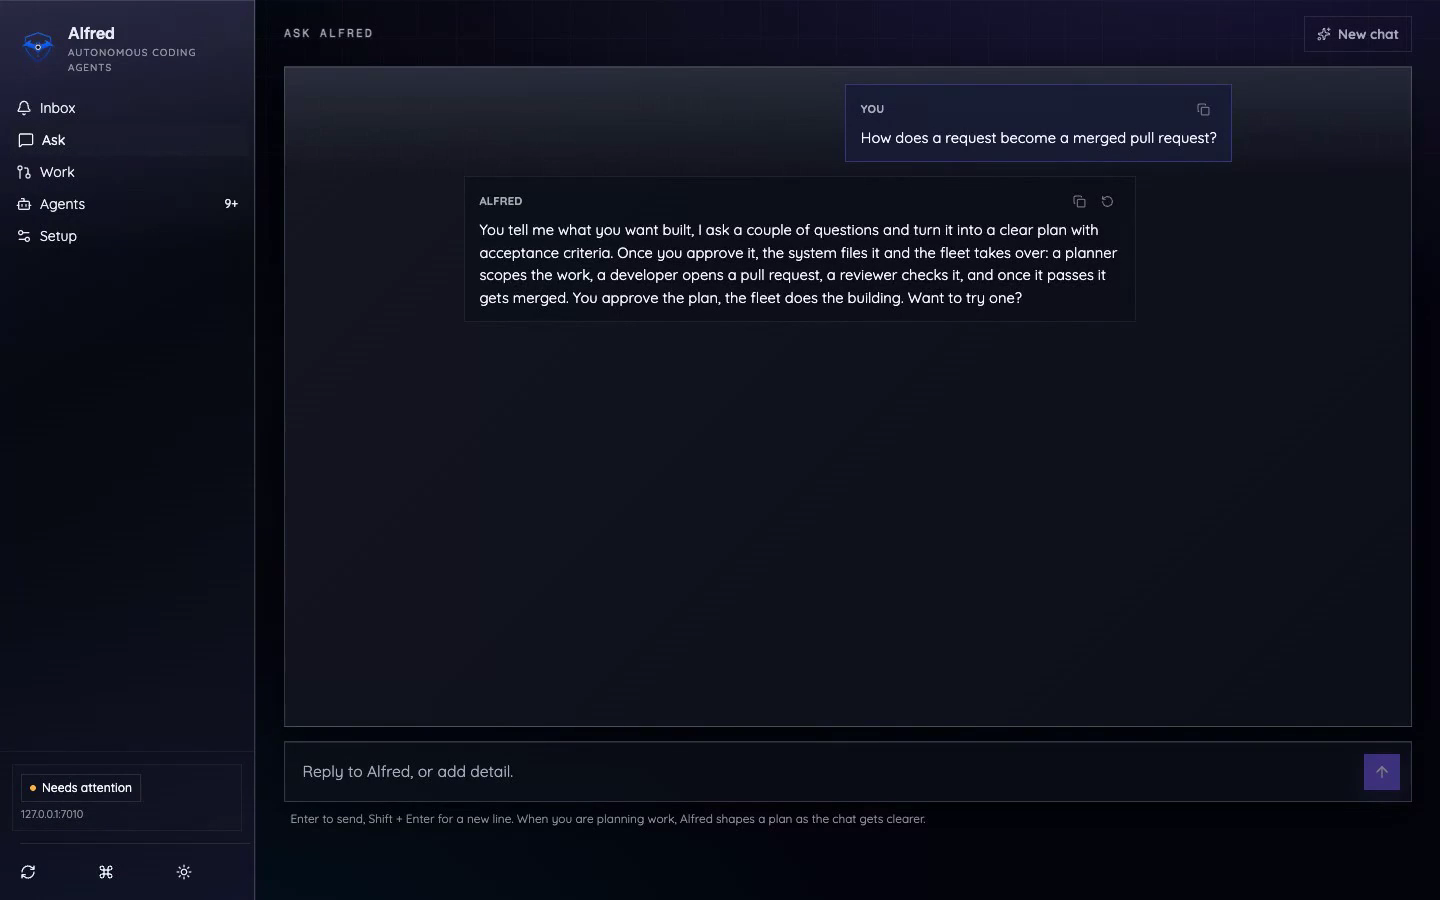
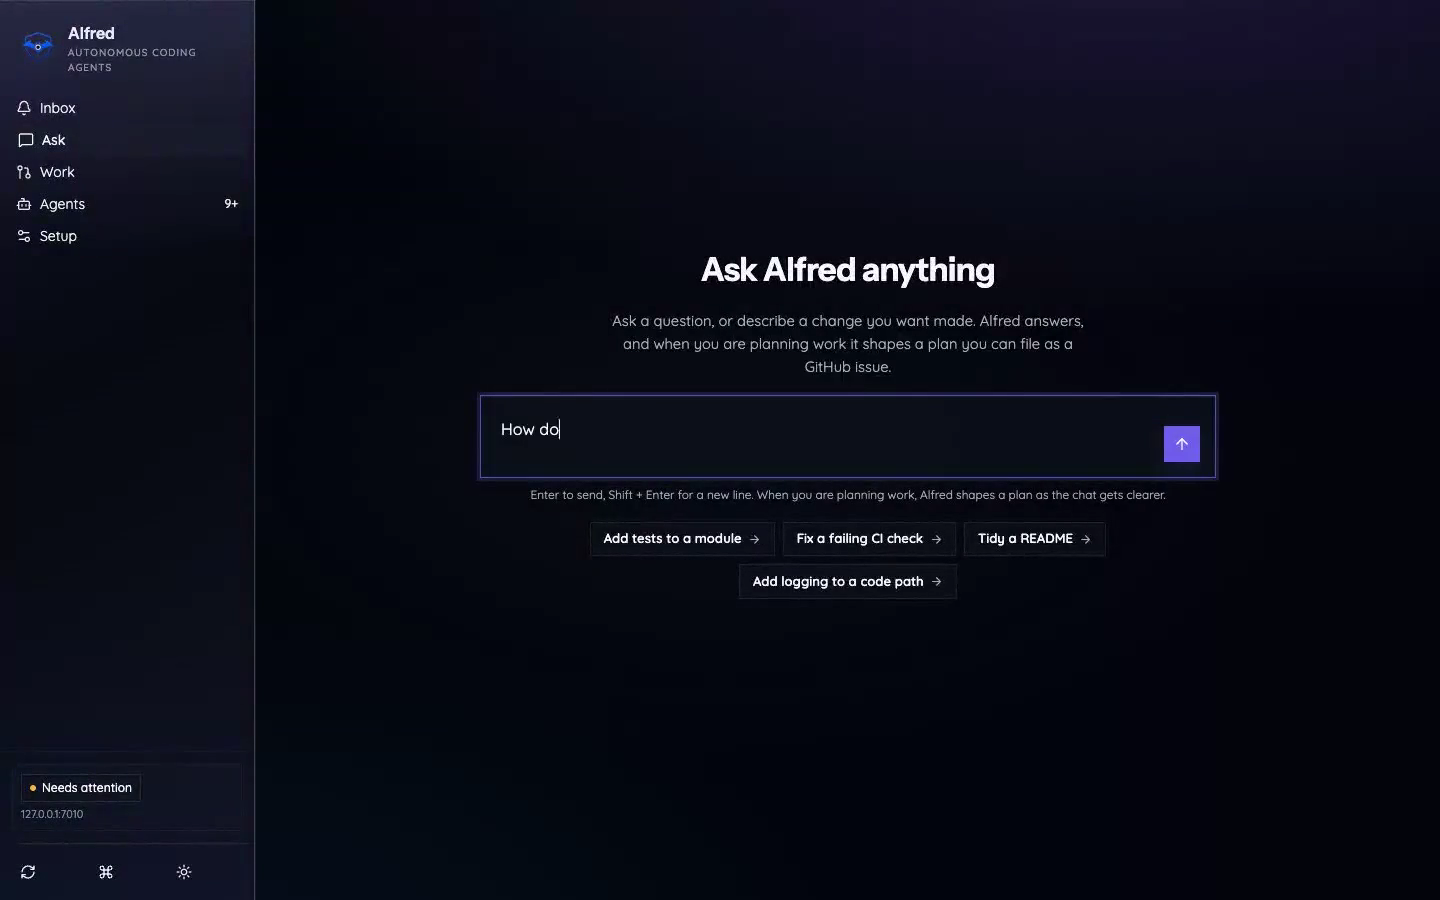
docs: rebuild the product tour and rehome the screenshots
Rebuild alfred-tour as a V2 (about 55s): brand-font (Instrument Sans) opening
and closing cards, a live "describe a change, get a plan" Ask exchange, a Slack
thread scoping a request, and the fleet-authored pull request that request
produced, spliced into the existing decide, Ask, roster, re-skin, learnings,
work board, and merged-PR scenes with the waits sped up. Under 60s and 25MB;
the webp preview is under 14MB.

Dissolve docs/SCREENSHOTS.md and embed each shot where it belongs: the demo GIF
in DEMO.md, the Learnings view in STATE_AND_MEMORY.md, a Slack thread in
SLACK_SETUP.md, the setup screens in ONBOARDING.md, and the Ask surface in
CONVERSATION.md. Add the fleet-authored PR #503 to the README real-work strip,
and fix the INDEX and README links.

Rewrite the tour copy on the site and in the README in plain language, and
correct two doc drifts: the merge gate does pin the named external reviewers
when they are required, and BATTERIES was missing the graphify code-graph
battery.

diff --git a/README.md b/README.md
@@ -58,16 +58,16 @@ stops the run honestly. Full walkthrough in [`docs/DEMO.md`](docs/DEMO.md).
 
 ## Watch the tour
 
-A short tour of the whole surface: the decide inbox, asking Alfred a question,
-the agent workflow graph, a live roster re-skin, what the fleet has learned, and
-the work board showing real merged pull requests. Every screen is live local
-state, nothing mocked.
+See it work. About a minute, nothing staged: you ask a question and get an
+answer, describe a change and a plan shows up to approve, a request gets scoped
+in Slack, agents build and review it, and real pull requests land, all on your
+own machine.
 
 <p align="center">
-  <a href="docs/media/alfred-tour.mp4"><img src="docs/media/alfred-tour.webp" alt="Alfred product tour: the decide inbox, asking a question, the workflow graph, a live roster theme switch, learnings, and the work board with real merged PRs" width="820"></a>
+  <a href="docs/media/alfred-tour.mp4"><img src="docs/media/alfred-tour.webp" alt="Alfred product tour: asking a question, shaping a plan from a change request, scoping a request in Slack, a fleet-authored pull request, the agent roster and workflow graph, a live roster re-skin, what Alfred has learned, the work board, and a merged pull request in the terminal" width="820"></a>
 </p>
 
-<p align="center"><em><a href="docs/media/alfred-tour.mp4">Watch the full tour (MP4, 55s)</a>. Recorded against a live <code>alfred serve</code>.</em></p>
+<p align="center"><em><a href="docs/media/alfred-tour.mp4">Watch the full tour (MP4, 55s)</a>. Every frame is live local state from a running <code>alfred serve</code>.</em></p>
 
 ## What it is
 
@@ -103,8 +103,12 @@ flowchart LR
 ## Screenshots
 
 Alfred's desktop app, and the same UI served in a browser via `alfred serve`,
-runs entirely on your machine and is theme-aware. More, including light and dark
-for every screen, in [docs/SCREENSHOTS.md](docs/SCREENSHOTS.md).
+runs entirely on your machine and is theme-aware. The rest of the screens sit
+with the docs they belong to: the Ask surface in
+[`CONVERSATION.md`](docs/CONVERSATION.md), guided setup in
+[`ONBOARDING.md`](docs/ONBOARDING.md), what Alfred remembers in
+[`STATE_AND_MEMORY.md`](docs/STATE_AND_MEMORY.md), and a Slack thread in
+[`SLACK_SETUP.md`](docs/SLACK_SETUP.md).
 
 ![Ask Alfred anything](docs/images/ask-dark.png)
 
@@ -129,6 +133,10 @@ a test the fleet wrote and opened autonomously, checks green.
     <td width="50%"><img src="docs/images/real/pr-528.png" alt="gh pr view of luminik-io/alfred pull request 528: merged, +20 -0, one file, all checks passing, written by the fleet"><br><sub><em>A real pull request the fleet wrote and opened on its own repo, checks green.</em></sub></td>
   </tr>
 </table>
+
+<p align="center"><img src="docs/images/real/pr-503.png" alt="The GitHub page for pull request 503 on luminik-io/alfred: fix(process): require subprocess timeouts, merged into main from a fleet branch, closing seed issue 498, with a clean review and green checks" width="820"></p>
+
+<p align="center"><em>From a one-line seed issue to a merged pull request: <a href="https://github.com/luminik-io/alfred/pull/503"><code>#503</code></a> added the missing subprocess timeouts across the runtime, opened by the fleet off issue <a href="https://github.com/luminik-io/alfred/issues/498"><code>#498</code></a> and driven to a clean review and green checks.</em></p>
 
 ## Quick start
 

diff --git a/docs/CONVERSATION.md b/docs/CONVERSATION.md
@@ -14,6 +14,17 @@ level of a capable teammate. Only when you clearly ask for work to be built does
 Alfred shift into planning, and even then it offers a plan in plain language
 first and waits for your go-ahead before anything is filed or run.
 
+The desktop Ask box is one of those surfaces, in light and dark. Ask a question
+and Alfred answers; describe a change and it shapes a plan you can file for the
+fleet to build.
+
+<table>
+  <tr>
+    <td width="50%"><img src="images/ask-light.png" alt="The desktop Ask surface in light theme, with a prompt reading Ask Alfred anything and a text box for a question or a change request"><br><sub><em>Ask, light.</em></sub></td>
+    <td width="50%"><img src="images/ask-dark.png" alt="The desktop Ask surface in dark theme, with a prompt reading Ask Alfred anything and a text box for a question or a change request"><br><sub><em>Ask, dark.</em></sub></td>
+  </tr>
+</table>
+
 This page covers talking to Alfred once it is set up. There is also a
 conversational *setup* path, where Alfred asks you setup questions and proposes
 each step under an approval gate. That is a separate flow with its own action

diff --git a/docs/MERGE_GATE.md b/docs/MERGE_GATE.md
@@ -2,8 +2,11 @@
 
 Alfred merges a pull request only when GitHub itself says it is ready. There is
 one predicate, in [`lib/merge_gate.py`](../lib/merge_gate.py), and it reads
-GitHub's own machinery. It hard-codes no reviewer names and no review products.
-The reviewers are whoever GitHub says approved the PR.
+GitHub's own machinery. By default the reviewers are whoever GitHub says
+approved the PR, with no reviewer names or review products hard-coded. When you
+require named external reviews (Alfred's own repository runs with
+`greptile,codex`), the gate also checks those specific bots by their exact
+GitHub identities and looks for their exact clean-verdict text.
 
 ## The gate
 
@@ -20,6 +23,9 @@ A PR is mergeable by Alfred only when all of these hold:
    blocking the merge. `UNSTABLE`, `BLOCKED`, `DIRTY`, `BEHIND`, and `UNKNOWN`
    all fail the gate.
 5. No check run is in a failing conclusion.
+6. Every external review named in `ALFRED_MERGE_REQUIRED_EXTERNAL_REVIEWS` (empty
+   by default) has posted a clean verdict on the exact current head. Alfred's own
+   repository sets this to `greptile,codex`.
 
 The gate fails closed. Any API error, any missing field, or any value it does
 not recognise makes it return "not mergeable" rather than guess.

diff --git a/docs/ONBOARDING.md b/docs/ONBOARDING.md
@@ -12,6 +12,16 @@ Both paths run the same underlying setup handlers, so they can never drift.
 Whatever you can do by chatting, you can do by stepping, and the config that
 lands is identical.
 
+The Setup screen is the same in light and dark; it checks your machine, connects
+GitHub, picks your repositories and team, and ends on a result you can see.
+
+<table>
+  <tr>
+    <td width="50%"><img src="images/setup-light.png" alt="The Alfred Setup screen in light theme: guided steps for the engine check, GitHub, repositories, team names, and schedule"><br><sub><em>Setup, light.</em></sub></td>
+    <td width="50%"><img src="images/setup-dark.png" alt="The Alfred Setup screen in dark theme: the same guided steps for the engine check, GitHub, repositories, team names, and schedule"><br><sub><em>Setup, dark.</em></sub></td>
+  </tr>
+</table>
+
 ## The conversational path
 
 The desktop app's Setup screen can hold a conversation. You say something like

diff --git a/docs/SLACK_SETUP.md b/docs/SLACK_SETUP.md
@@ -6,6 +6,16 @@ optional Slack bot token. This doc covers both paths.
 
 If you already have a webhook URL, the framework needs `SLACK_WEBHOOK_URL` in your environment (or in AWS Secrets Manager; see below). Skip to [§ Wiring it up](#wiring-it-up).
 
+Once it is wired up, Alfred lives in your channel: agents post what they did, and
+you can start work by mentioning Alfred and refine the plan in the thread before
+anything is built.
+
+<p align="center">
+  <img src="images/real/slack-thread.png" alt="The Alfred channel in the Slack desktop app: agent reports posted by the fleet on the left, and a thread on the right where Alfred turns a plain-English request into a scoped plan with a readiness score before building" width="820">
+</p>
+
+<p align="center"><em>Alfred in Slack: agents report as they work, and a request in the thread becomes a scoped plan you approve before any code is written.</em></p>
+
 ## At the end
 
 - A Slack app named `<your-fleet>-bot` in the workspace where you want the channel.

diff --git a/docs/STATE_AND_MEMORY.md b/docs/STATE_AND_MEMORY.md
@@ -13,6 +13,16 @@ GitHub and local config.
 
 This page maps the local state files, the fleet-brain database, and the contract each part carries.
 
+The desktop app surfaces the lesson store directly. The Learnings view shows
+what Alfred picked up on its own, with the run or conversation each lesson came
+from, so you can keep or drop any one of them.
+
+<p align="center">
+  <img src="images/real/learnings-remembers.png" alt="The Learnings view in the Alfred desktop app: a heading reading What Alfred remembers, an explanation that Alfred keeps lessons on its own, and lesson cards showing where each lesson came from with keep and dismiss controls" width="820">
+</p>
+
+<p align="center"><em>What Alfred remembers, in the desktop app: lessons it kept from its own runs, each traceable to where it learned it.</em></p>
+
 ## The state tree
 
 ```

diff --git a/docs/DEMO.md b/docs/DEMO.md
@@ -8,6 +8,12 @@ loop once, on a throwaway repo, and asks nothing of you except a working
 alfred demo
 ```
 
+<p align="center">
+  <img src="images/demo.gif" alt="alfred demo in the terminal: it plans a change, waits for approval, builds it, reviews it and catches a planted bug, applies the fix, runs the tests, and ends on a pull-request summary" width="760">
+</p>
+
+<p align="center"><em>One run on a throwaway repo: plan, approve, build, review that catches a planted bug, fix, ship. Nothing is faked; a missing CLI, a failed call, or a failing test stops the run and says so.</em></p>
+
 From a source checkout:
 
 ```sh

diff --git a/docs/BATTERIES.md b/docs/BATTERIES.md
@@ -29,6 +29,7 @@ alfred batteries disable <id>  # turn it back off
 | **Dense embeddings** (Memory) | `dense-embeddings` | A vector (semantic) recall arm on the built-in SQLite store, fused with the keyword arm. | Finds relevant past lessons even when you word things differently, because it matches on meaning as well as keywords. Stays a single file; needs a local Ollama for the embeddings. | `pip install "alfred-os[vector]"` |
 | **Headroom compression** (Context / compression) | `headroom-compression` | An optional external compressor (headroom-ai) wired in behind the same tool-output seam. | Squeezes more out of verbose logs, JSON, and test output than the built-in compactor, lowering the token cost of each run. Optional; if it is missing Alfred just uses the built-in. | Install `headroom-ai` into the same `python3` that runs Alfred's hooks, for example `python3 -m pip install headroom-ai` in the scheduler environment. `pipx install headroom-ai` is CLI-only unless you also set `ALFRED_HEADROOM_COMPRESS_CMD`. |
 | **Codebase memory (MCP)** (Code understanding) | `code-memory-mcp` | A standalone MIT binary (codebase-memory-mcp) that indexes your repos into a code graph the agent queries over MCP. | Lets the agent ask where a symbol is, who calls it, and what a change would affect, instead of grepping and re-reading. Alfred attaches it to Claude-engine firings by default once the pinned binary is present. | Fetched automatically on first use by default. Set `ALFRED_CODE_MEMORY_MCP=0` to disable the MCP attachment or `ALFRED_CODE_MEMORY_AUTOFETCH=0` to require a manual binary install. |
+| **Graphify code graph** (Code understanding) | `graphify` | A pure-Python code-graph engine (graphifyy, tree-sitter over ~40 languages) that maps imports, calls, and inheritance into a queryable graph, served to the agent over MCP. | The agent navigates a large codebase by real relationships instead of re-reading files, and extraction is local with no LLM, database, or embeddings. An alternative to Codebase memory (MCP); enable one code-graph engine, not both. | Autofetched on first use. Set `ALFRED_GRAPHIFY_MCP=1` to enable, or `ALFRED_GRAPHIFY_FALLBACK` to control its fallback. |
 | **Redis Agent Memory Server** (Memory) | `redis-ams` | A daemon-backed semantic memory store (Redis Agent Memory Server), used instead of the embedded SQLite store. | Shares one semantic memory across many machines, for when a single file on one host is not enough. It needs Redis, the memory server, and Ollama running; the SQLite default needs none of that, so most solo setups do not need this. | Needs a Redis you run |
 | **Postgres + pgvector** (Memory) | `pgvector` | The scale-tier memory backend: Postgres with pgvector, behind the same memory contract. | Handles the case where the single-file SQLite store becomes the bottleneck (many machines writing at once, or very large lesson counts). Needs a Postgres you run. Stay on SQLite until you actually hit that wall. | Install `alfred-os[pgvector]` into Alfred's runtime Python and run Postgres with the pgvector extension, for example `$ALFRED_HOME/venv/bin/python -m pip install "alfred-os[pgvector]"`. |
 

diff --git a/docs/INDEX.md b/docs/INDEX.md
@@ -42,7 +42,6 @@ Current map of the public docs. Trust code first, then this index.
 - [`CONVERSATION.md`](CONVERSATION.md): Alfred's conversational surfaces after setup. How a Slack mention, DM, or desktop Ask message becomes a natural, streamed, context-grounded reply (repositories, live fleet status, lessons), when it offers a plan versus answers a question, the streaming transport, the safety rails, and configuration. For conversational setup, see [`ONBOARDING.md`](ONBOARDING.md).
 - [`SLACK_UX.md`](SLACK_UX.md): Slack-native message shape, planning replies, approval flow, and anti-patterns.
 - [`DESKTOP_CLIENT.md`](DESKTOP_CLIENT.md): Alfred Desktop design rationale and tab-by-tab tour, the Setup screen (guided install plus conversational onboarding and the theme builder), the Slack-native boundary, the `alfred serve` API and native allowlist, and building native installers.
-- [`SCREENSHOTS.md`](SCREENSHOTS.md): the desktop / served UI in light and dark - the Ask surface and the two-minute setup, and the plan/build/review/fix/ship loop they drive.
 - [`SERVE.md`](SERVE.md): `alfred serve`, the localhost-only control API and browser UI over state, saved architect plans, the fleet brain, and planning drafts. Reads are open on localhost; mutations are token-gated. This is the API Alfred Desktop runs on.
 - [`DESIGN.md`](DESIGN.md): the visual language for the native app and the site. Color tokens, the Instrument Sans plus Quicksand plus Fragment Mono type stack, glass surfaces, motion and `prefers-reduced-motion`, and accessibility.
 - [`THEME_SYSTEM.md`](THEME_SYSTEM.md): the desktop two-axis theme model. The `data-theme` palette and `.dark`/`.light` mode axes, the `:root` token contract, and glass versus flat surface tokens.